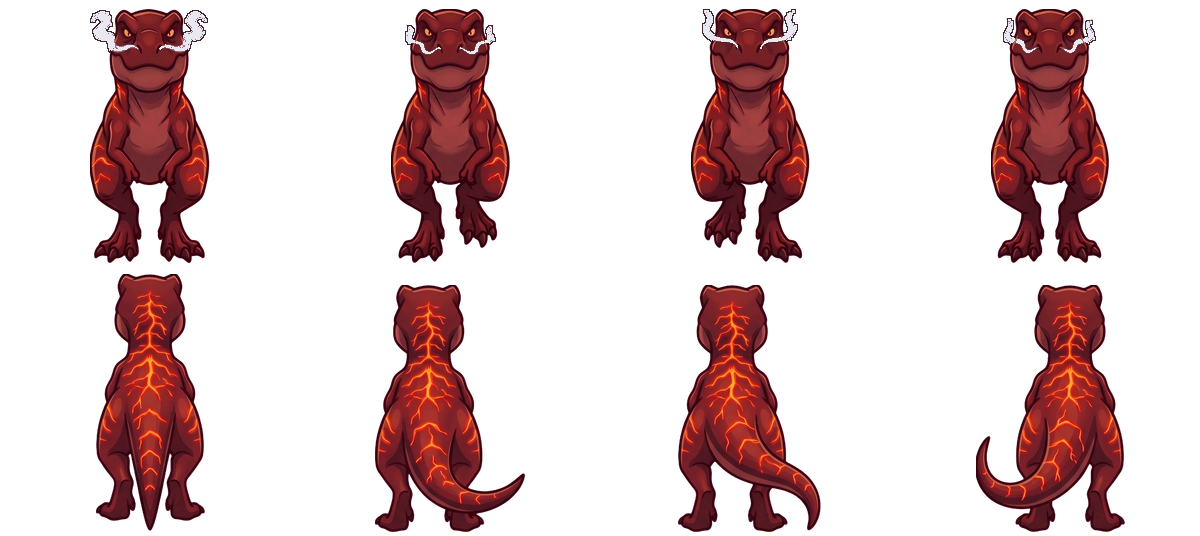
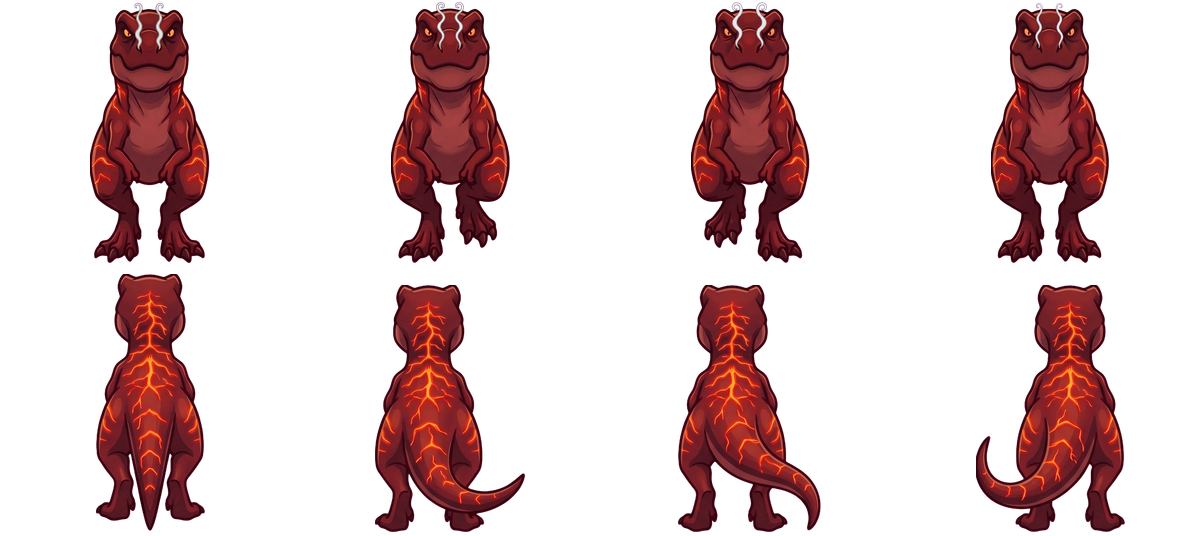
fix(images): dernière passe — Isaure cohérente, boussole sans lettres, Bastion, T-Rex de face (fumée des naseaux), poteau, Hélène de dos, filet de Léonce

diff --git a/Godot/docs/direction-artistique.md b/Godot/docs/direction-artistique.md
@@ -123,7 +123,7 @@ chaque nouveau repli ; retirer la ligne une fois refait.
 | Chapitre 8, lave : sol non animé | `ground/lave.png` | Une seule image raccordable (nano-banana ne fait pas de planche animée) ; l'animation se fait par défilement/shader du sol | Au besoin, une planche de 4 images décalées |
 | Chapitre 8, autel_magma_fendu : lueur recolorée | `props/autel_magma_fendu.png` | La lueur de la fente, peinte sur le magenta, sortait rose : repeinte en orange par `recolor()` (tools/art-jobs/volcan_decors.mjs) | Redemander l'autel fendu avec la fente éclairée sur un fond d'une autre couleur |
 | Chapitre 8, fiche de Brac assis : colonnes recomposées | `characters/brac_assis_cage.png` | nano-banana a dessiné 6 colonnes au lieu de 4 : recomposées en 4 ; la rangée du bas (debout, inutilisée) a son profil gauche = le droit retourné | Rien si la rangée du bas reste inutilisée |
-| Chapitre 8, trex_magma de face : fumée (19/10) | `dinos/trex_magma_face_dos.png` (anciennes : `_v1`, `_v2`) | REPLI par script après 3 essais nano-banana ratés (fumée géante en défenses) : la fumée d'origine, sur les 4 cases de face, est rendue opaque, claire, plus épaisse et cernée ; dos intact. Elle part toujours des joues, près des yeux | Redemander à nano-banana, case par case, des volutes sortant des naseaux (consigne très restrictive : « petites », « ne pas redessiner le dino ») |
+| ~~Chapitre 8, trex_magma de face : fumée~~ fait le 19/10 (passe finale) | `dinos/trex_magma_face_dos.png` (anciennes : `_v1`, `_v2`, `_v3`) | nano-banana, cellule par cellule (tête agrandie sur magenta, consigne restrictive) : deux petits filets de fumée blancs sortent des naseaux et montent le long du museau ; tête recomposée sur le corps d'origine, dos intact | Rien (têtes très légèrement plus rondes qu'avant, invisible en jeu) |
 | Chapitre 9, Souverain : planches 3×2 et vue de dos | `dinos/souverain*.png` | nano-banana a dessiné 3×3 (9 poses) : recomposées en 3×2 par `apex_especes.mjs` (cases choisies) ; l'attaque saine a la gueule ouverte, l'apaisé n'en a pas ; de dos, la queue épaisse se lit un peu comme un triangle clair | Redemander la vue de dos avec la queue plus fine et le cou visible si on le prend pour un ankylosaure |
 | Chapitre 9, Souverain couché : couleurs | `dinos/souverain_couche.png` | la version apaisée est plus grise que `souverain_apaise.png` (olive) ; les deux rangées sont quasi identiques | Les harmoniser si on les met côte à côte en jeu |
 | ~~Chapitre 9, portail ouvert~~ fait le 19/10 | `props/portail_apex_ouvert.png` (ancienne : `_v1`) | nano-banana : cinq disques (2+3), même cadrage 462×475 | Rien |
@@ -131,10 +131,10 @@ chaque nouveau repli ; retirer la ligne une fois refait.
 | Chapitre 9, `isaure_helene` | `props/isaure_helene.png` | dessinée en gros plan (têtes plus grandes que les sprites), Isaure aux cheveux plus gris que sur sa planche | À refaire en chibi si elle jure avec les sprites en jeu |
 | Chapitre 9, Hélène assise : profils | `characters/helene_assise.png`, `helene_sol.png` | profil droit = profil gauche retourné (fauteuil et assise au sol) ; rangée « debout soutenue » : le bras tendu est retourné avec le profil | Dessiner les deux profils si le bras tendu se voit mal |
 | Chapitre 9, `helene.png` : ordre des rangées | `characters/helene.png` | éditée depuis `bertille.png`, qui a la rangée du dos EN PREMIER (ordre du jeu : face, gauche, droite, dos) : rangées remises dans l'ordre du jeu après découpe | ~~Vérifier `bertille.png`~~ fait le 19/10 : `helene.png` est correcte (face, gauche, droite, dos ; 4×4 de 133×184, personnage de 176 px comme roc/bertille/maia), rien à corriger |
-| Finitions ch. 8-9 (19/10) : Hélène sans fauteuil | `characters/helene_assise_sans_fauteuil.png` (960×368, 2×4 cases de 240×184 ; anciennes : `helene_assise.png`, `_v2`) | nano-banana : la vue de dos (rangée assise) est redessinée assise de dos sur un siège invisible, jupe étalée, talons des bottes visibles ; réduite à 160 px de haut et resserrée à 72 % en largeur ; autres cases intactes | La jupe reste large et la tête un peu plus petite que sur les autres vues ; à regarder sur le fauteuil de Roc |
+| Finitions ch. 8-9 (19/10) : Hélène sans fauteuil | `characters/helene_assise_sans_fauteuil.png` (960×368, 2×4 cases de 240×184 ; anciennes : `_v1`, `_v2`, `helene_assise.png`) | nano-banana : vue de dos assise refaite (passe finale 19/10) : tête plus grosse (proportion des autres vues), jupe resserrée ; autres cases intactes | Rien ; à regarder sur le fauteuil de Roc |
 | Finitions ch. 8-9 : Firmin sans masque | `characters/firmin_sans_masque.png` (400×736, 4×4 de 100×184 comme `sbire.png`, 4 pas par rangée) | nano-banana, depuis `sbire.png` : capuche baissée, cheveux roux-brun, barbe de trois jours, sans pioche ni masque ; dos refait (capuche baissée) | Rien ; à brancher dans `actors/outfits.gd` / `apex_decor.gd` (`FIRMIN`) |
 | Finitions ch. 8-9 : Maïa sur la pierre, manteau de `maia_arche` | `characters/maia_pierre.png` (1040×480, 2×4 de 260×240 ; ancienne : `maia_pierre_v1.png`) | nano-banana, deux rangées refaites (assise et debout) avec le manteau bleu pâle à fourrure ; la pierre est redessinée un peu plus petite et plus haute | Si la pierre jure avec le décor, la redemander plus large ; rangée du bas inutilisée |
-| Finitions ch. 8-9 : Léonce au port | `characters/leonce_port.png` (464×736, 4×4 de 116×184 comme `pecheur.png` ; ancienne : `_v2`) | nano-banana, depuis `sbire.png` + visage de `leonce_assis.png` : sans masque ni capuche, filet à flotteurs sur l'avant-bras, navette à la main, cape sombre ; liseré rose neutralisé par script (19/10) | Le bas du filet (case de face, ~14×14 px) a un petit trou où il restait des mailles roses |
+| Finitions ch. 8-9 : Léonce au port | `characters/leonce_port.png` (464×736, 4×4 de 116×184 comme `pecheur.png` ; anciennes : `_v2`, `_v3`) | nano-banana, depuis `sbire.png` + visage de `leonce_assis.png` : sans masque ni capuche, filet à flotteurs sur l'avant-bras, navette à la main, cape sombre ; trou du bas du filet (case de face) rebouché par script le 19/10 | Rien |
 | Corrections 19/10 : Maïa arche assise, Léonce assis | `characters/maia_arche_assise.png`, `leonce_assis.png` (anciennes : `_v2`) | Maïa : têtes de la rangée assise agrandies de 24 % par script (≈ têtes de `maia_assise.png`) ; Léonce : case 2 = case 1 en miroir (cape alignée sur les autres cases) | Rien (retouches par script, pas par nano-banana) |
 
 ## Plaine Volcanique (art, chapitre 8, 17/10)
@@ -857,10 +857,10 @@ Toutes les peintures sont dans `assets/art/cinematiques/` (2560×1440, nano-bana
 
 Corrigés le 19/10 (passe de cohérence, édition nano-banana en gardant composition et style) : `fin_03` (Isaure en tenue sombre de marin, manches retroussées, mains nues ; forge sans toit, briques et pièces au sol), `fin_05` (visage de Chloé repris sur `intro_07`, insigne épinglé à plat sans cordon), `fin_07` (Mastoc tient la lanterne dans la gueule, tête d'Allosaurus de sa planche — son rouge-orangé est bien celui de la planche —, « Z » supprimés), `fin_06_dinos_echo` (Parasaurolophus vert sauge à rayures, crête et bec corail ; l'oiseau se bouche les oreilles), `fin_06_dinos_vif` (silhouette du fond retirée), `fin_08` (Souverain : petites écailles/bosses, plus de grandes plaques), `fin_09_journal` et `_sans_trait` (écriture d'Hélène remplacée par un gribouillis manuscrit illisible dessiné par script, « — H. » conservé ; les deux images restent superposables), `intro_05_carte_vide` (compas et fougère repris pixel pour pixel de `intro_05_carte` : se superposent).
 
-Défauts connus restants, à refaire avec nano-banana si ça gêne en jeu :
-- `intro_05_carte` : quelques lettres de boussole illisibles (sans gravité).
-- `intro_07`, `intro_08`, `intro_09`, `fin_02`, `fin_04` : Isaure sans casquette ni écharpe rouge de sa planche (cheveux gris en chignon, manteau sombre, selon le document) ; pas retouchées.
-- `intro_04` : les trois œufs sont bien là (crème épais, rose corail, tacheté gris-vert) ; le corail est ovale plutôt que long, le « toc » est sonore (moteur), rien à refaire.
-- `fin_01` : fumée de cheminée supprimée (le moteur l'anime).
-- `fin_06_dinos_bastion` / `_base` non revues. `fin_08` : la spirale de l'île reste approximative.
+Passe finale du 19/10 (agent IMAGES, `tools/art-jobs/retouches_final.mjs`) : Isaure harmonisée (intro_07/08/09 : casquette de marin, écharpe rouge, tenue de sa planche `isaure.png` ; fin_02/fin_04 : chignon gris, vêtements sombres de `isaure_sans_masque.png`), `fin_06_dinos_bastion` (Ankylosaurus ocre de sa planche, lichen discret, massue de queue lisible, Maïa avec sa corde), `fin_06_dinos_base` (fumée du volcan retirée, comme les trois variantes), `intro_05_carte` et `_vide` (boussole sans lettres ni chiffres, repères gravés ; cadran collé à l'identique sur les deux), `intro_04` (œuf corail allongé). `fin_01` : vérifié, volcan et cheminées sans fumée. Cohérence de Chloé vérifiée dans toutes les peintures (auburn, barrette, taches de rousseur, sac, gilet) : rien à corriger.
+
+Défauts connus restants (courts, sans gravité) :
+- `fin_08_souverain` : la spirale de l'île reste approximative (non retouchée : pas simple sans toucher au Souverain).
 - `fin_09_journal` : les gribouillis ont un air régulier de près (le moteur peut les flouter).
+- `fin_02_barque_visiteurs` : Isaure change peu (déjà proche de sa planche) ; l'édition a aussi légèrement redessiné de petits détails.
+- `intro_04_oeufs` : l'œuf corail, désormais très long, touche presque le petit mot collé sur le dôme.
